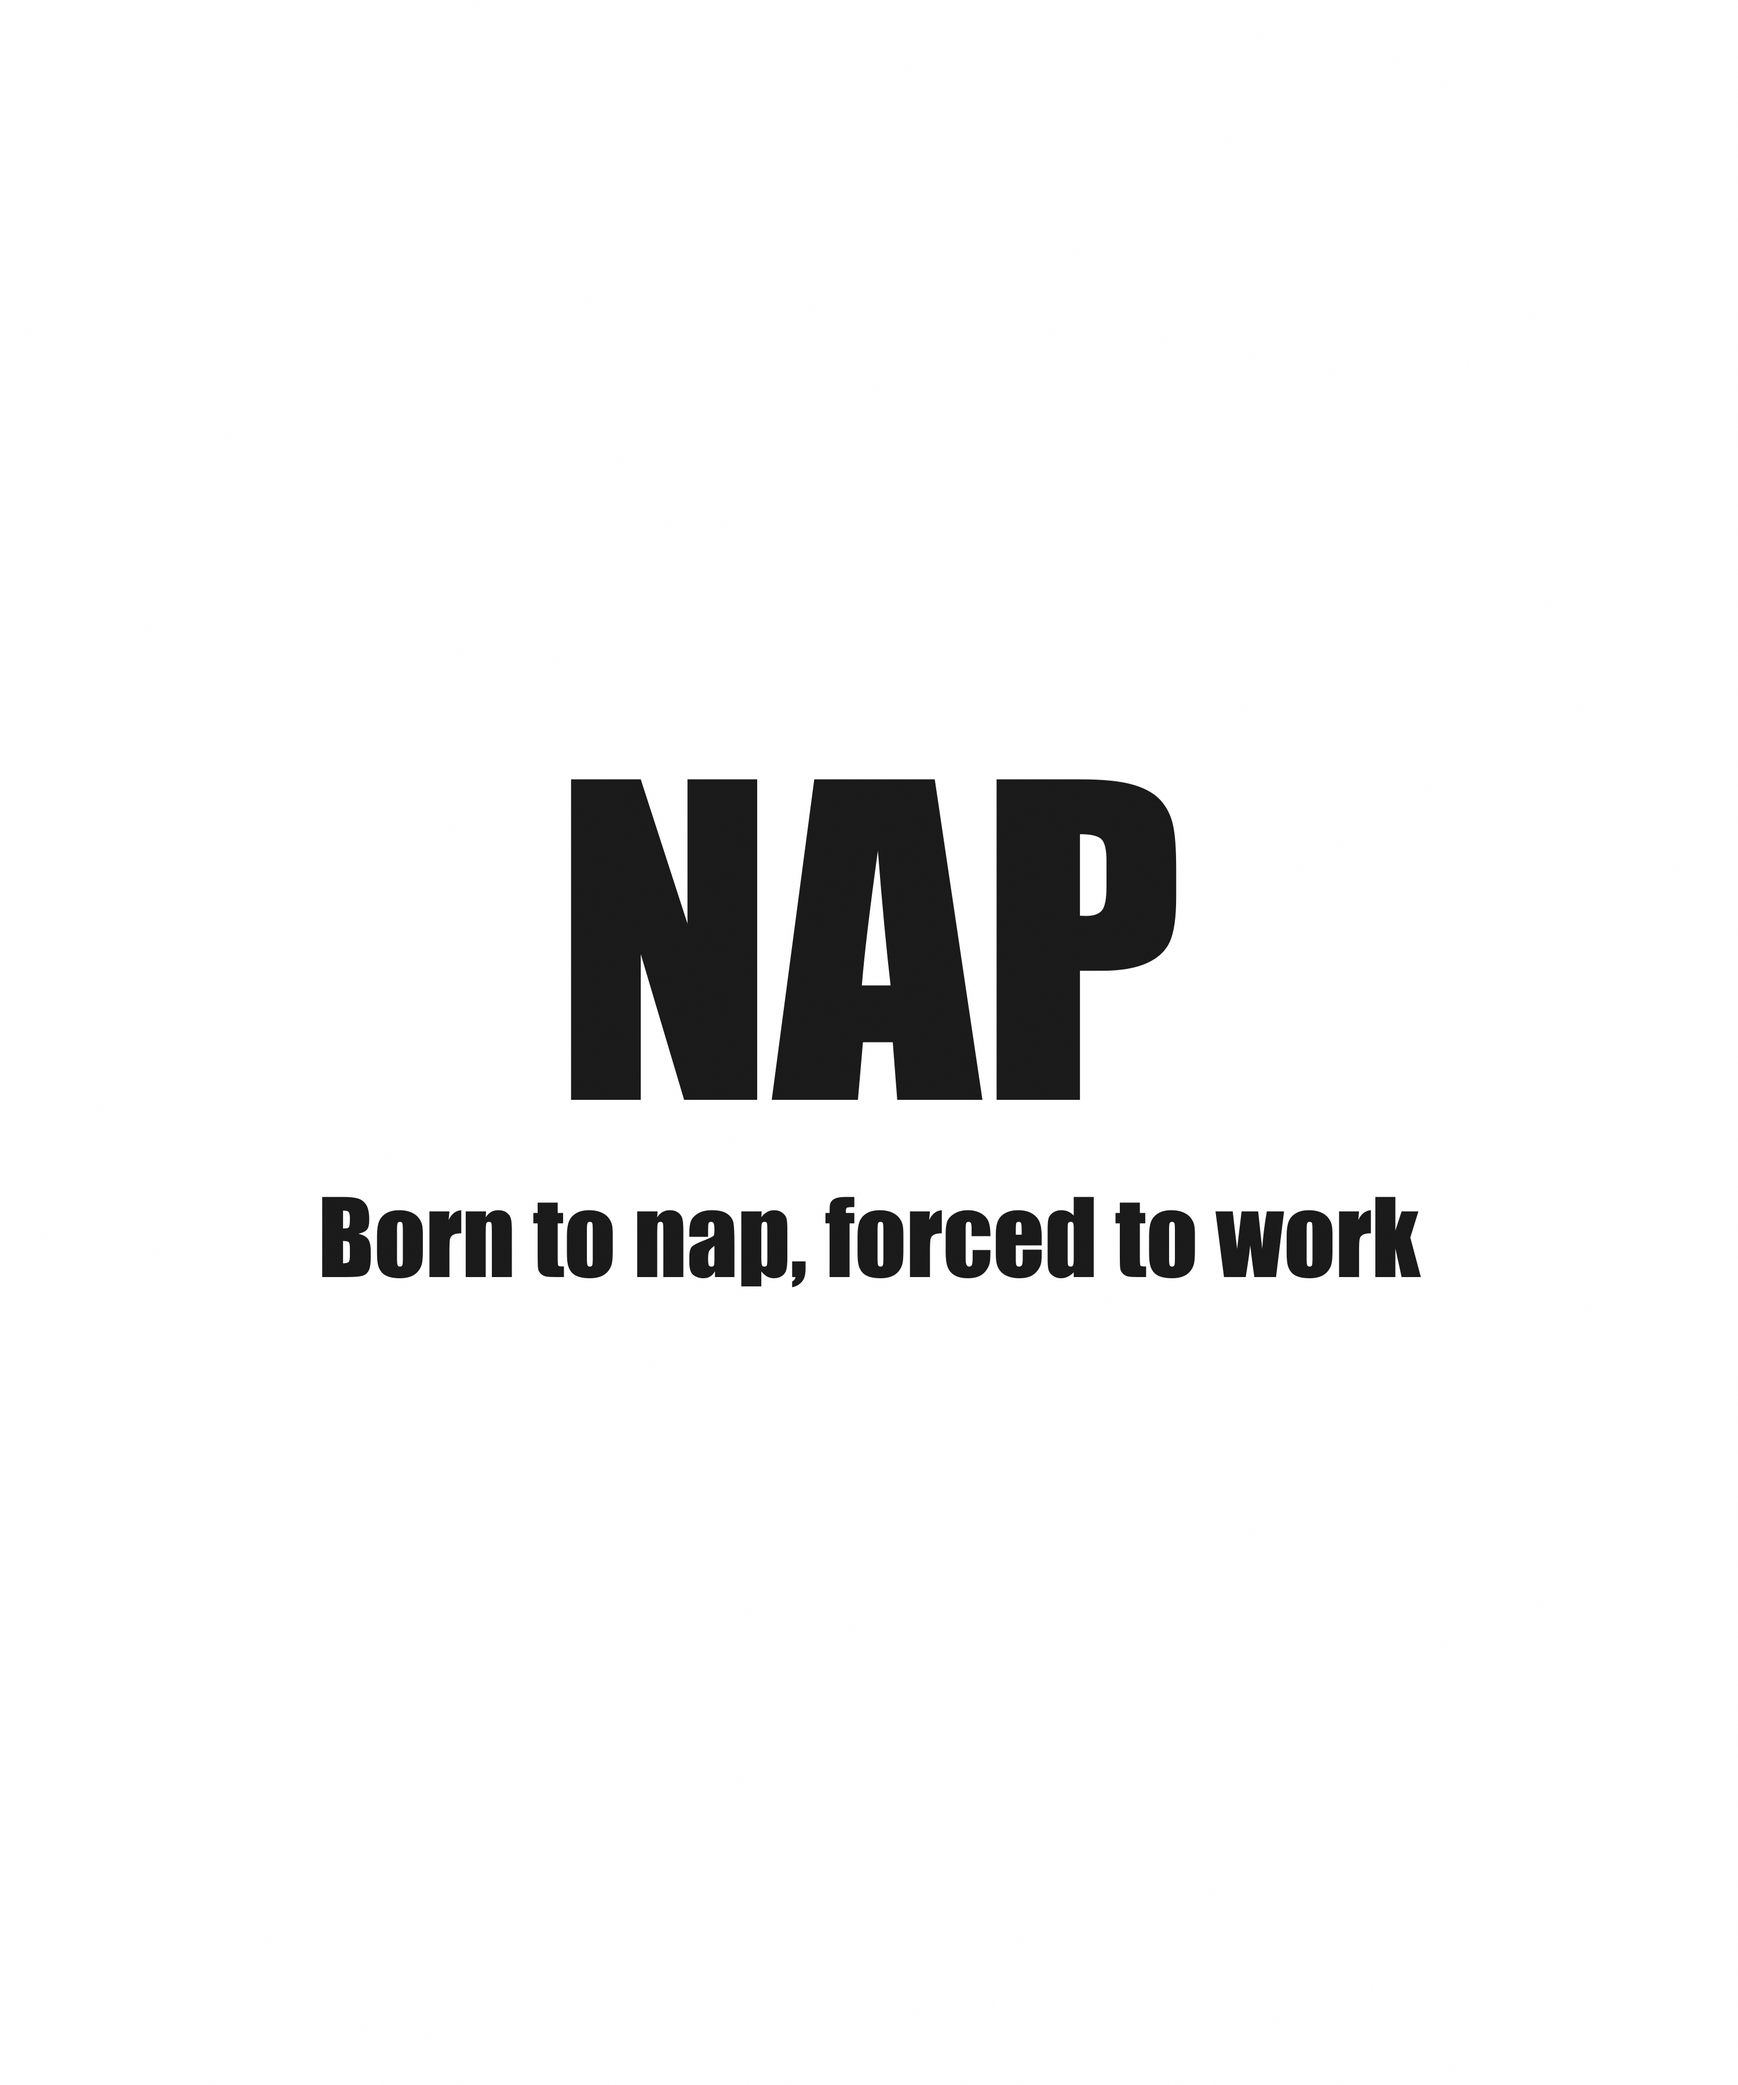
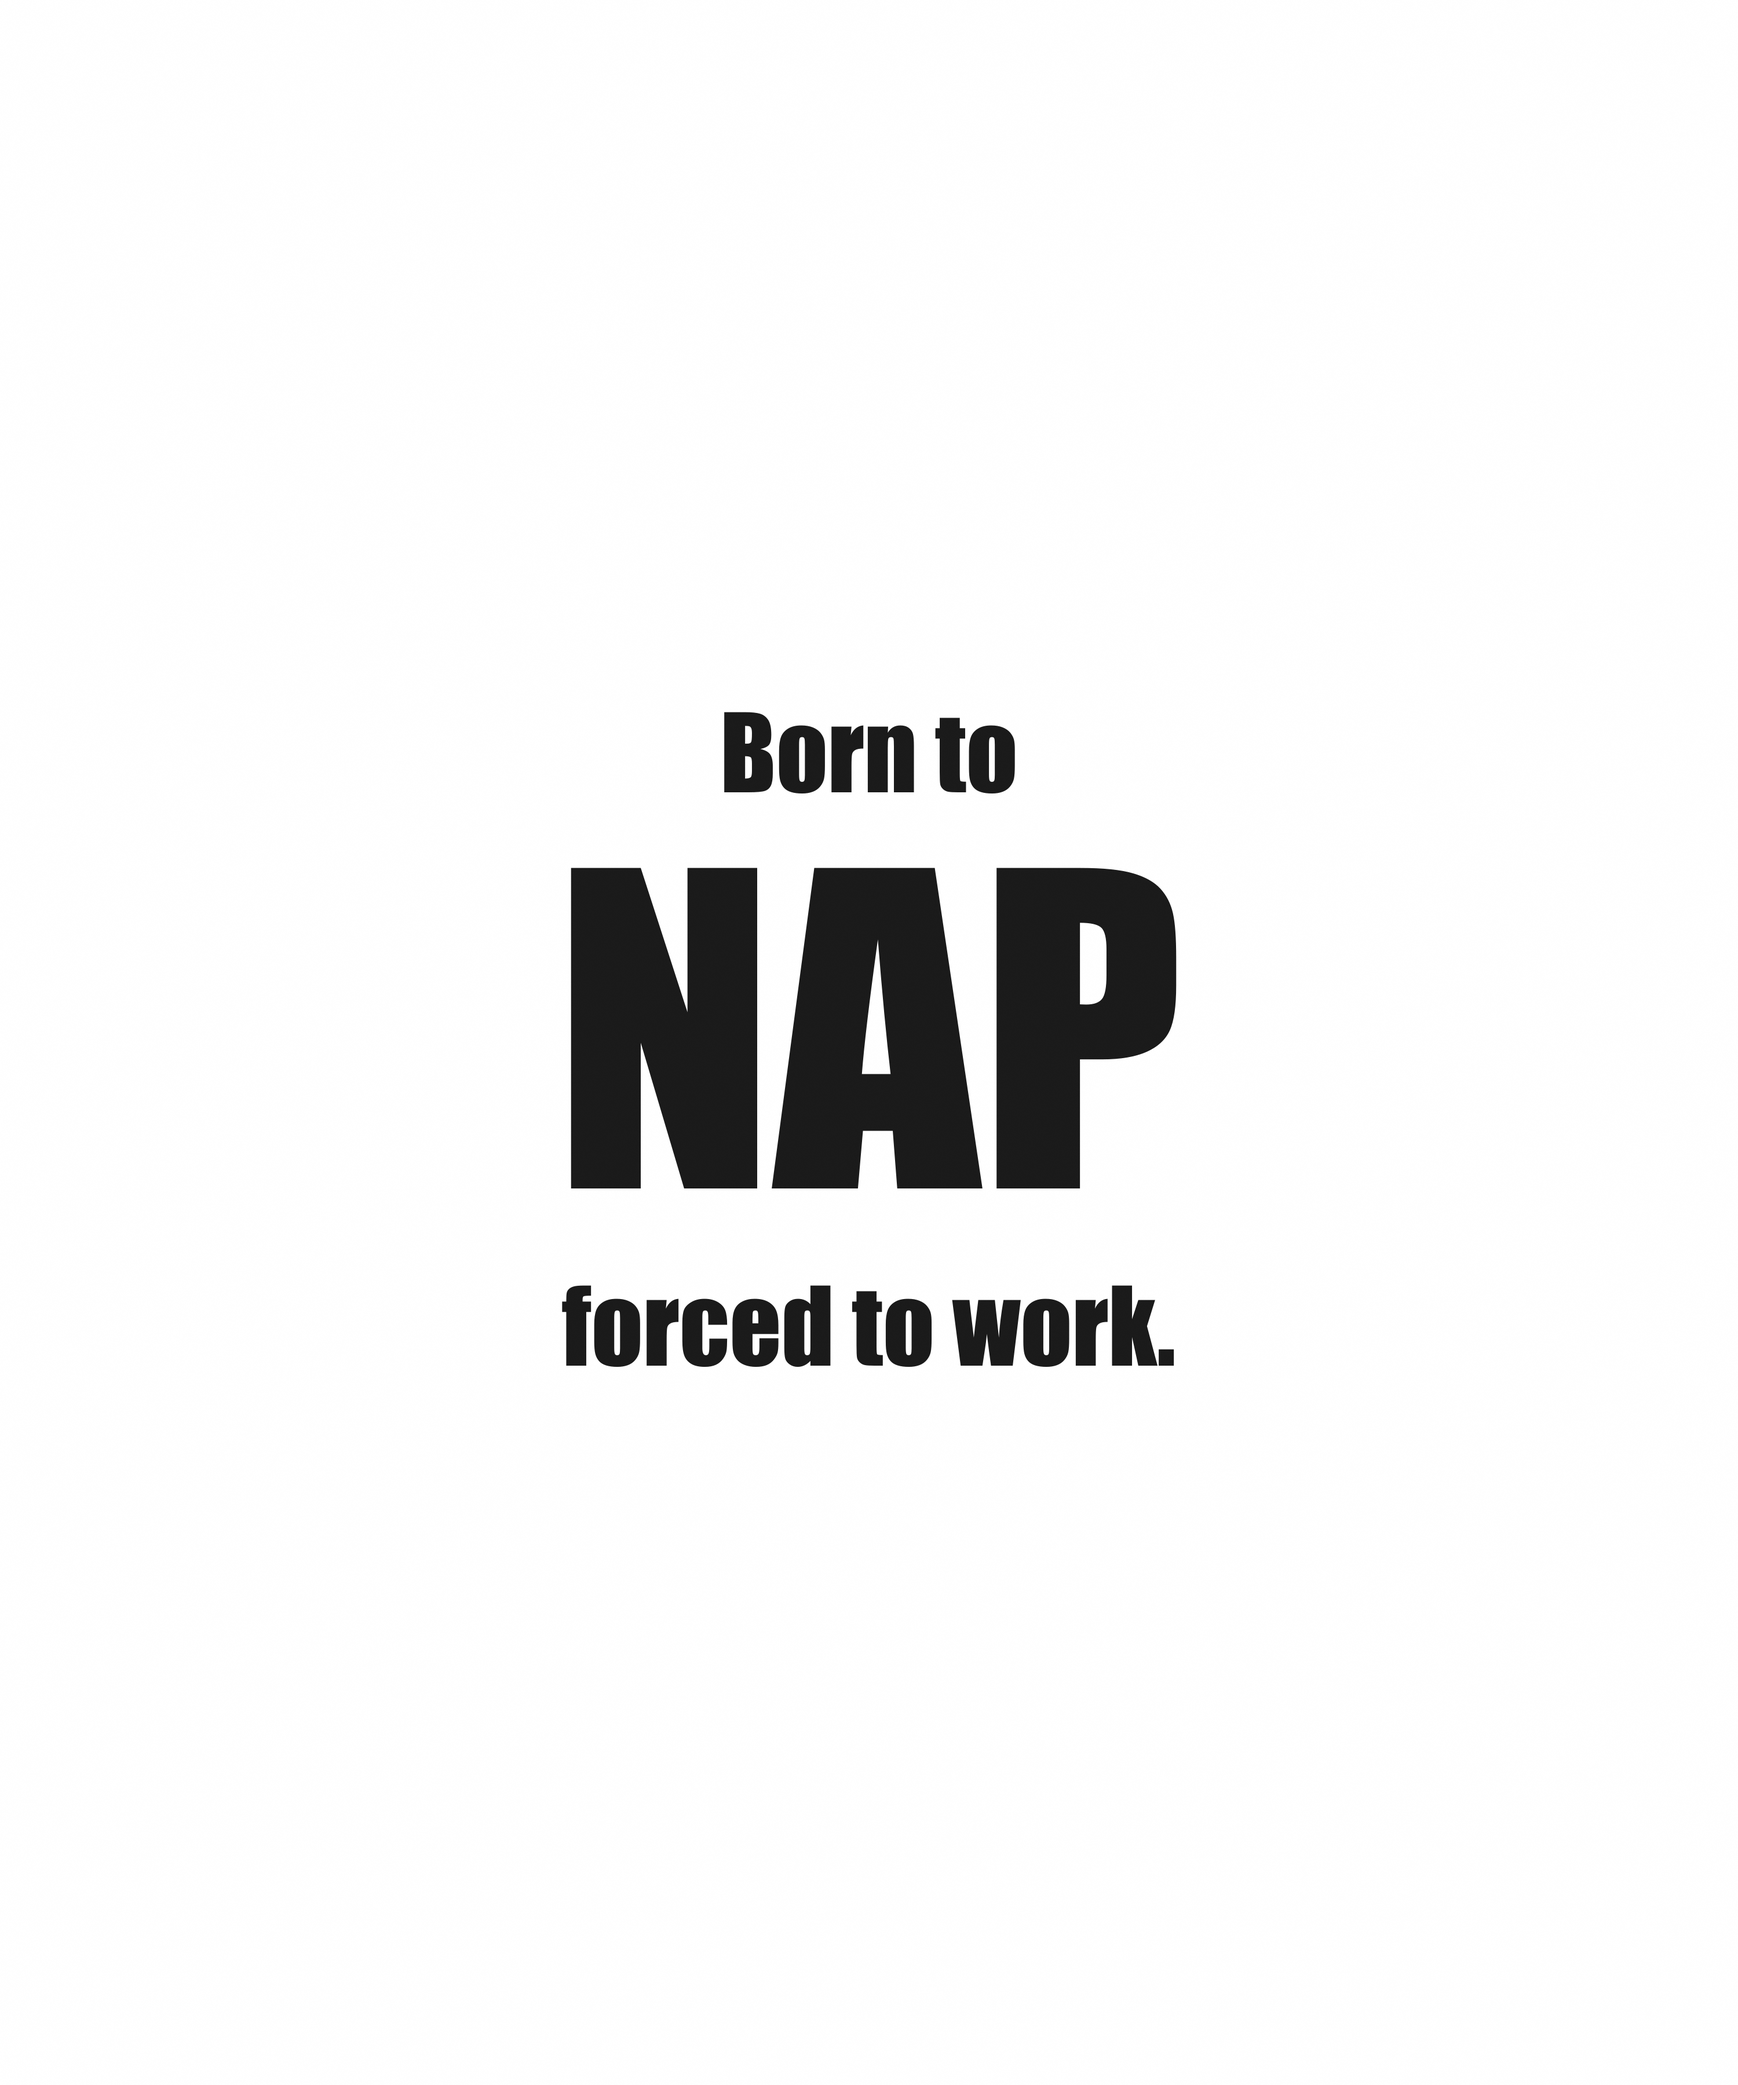
fix(i18n+cart+design): HE currency on trust bar/hero CTA, ghost-cart purge, NAP layout
Four bugs reported by oren via Hebrew UI screenshot:

1. NAP design (product 8): rebuild layout as 'Born to' (small) → NAP
   (big) → 'forced to work.' (small) so the design reads as a complete
   sentence top-to-bottom, instead of NAP-then-full-sentence-below.
   Updated PRODUCTS array in scripts/generate-designs.js AND the
   dubis_products row in Supabase (id 03689c28). Regenerated PNG.

2. Hero CTA showed '$14' even in Hebrew. Now converts the cheapest-
   product price ($14) via USD_TO_ILS at translateUI() time and renders
   'לחנות — החל מ-₪51' in HE / 'Shop the Drop — from $14' in EN.

3. Trust bar showed 'Free US shipping over $60' (with hardcoded $60 in
   data-he). translateUI() now rewrites .trust-text dynamically via
   freeShippingThreshold(), so HE shows 'משלוח חינם לארה״ב מעל ₪218'.

4. Cart kept showing items from products that oren already deleted
   from the catalog. loadCart() now intersects the saved cart with
   the current products[] array and rewrites localStorage to drop
   the ghost rows.

Changed region(s): [[0.186, 0.3422, 0.837, 0.6533]]

diff --git a/js/main.js b/js/main.js
@@ -314,7 +314,29 @@ function translateUI(lang) {
   if (heroTagline) heroTagline.textContent = t.hero_tagline;
   if (heroSubtitle && t.hero_subtitle) heroSubtitle.textContent = t.hero_subtitle;
   if (heroDesc) heroDesc.textContent = t.hero_desc;
-  if (heroBtn) heroBtn.textContent = t.hero_btn;
+  // Currency-aware hero CTA. Static translation strings hard-code "$14",
+  // but in Hebrew we display ₪ (USD_TO_ILS-converted) so prices stay in
+  // one currency across the page.
+  if (heroBtn) {
+    const cheapestUsd = 14;
+    heroBtn.textContent = lang === 'he'
+      ? 'לחנות — החל מ-' + formatPrice(cheapestUsd)
+      : 'Shop the Drop — from ' + formatPrice(cheapestUsd);
+  }
+
+  // Trust bar (top of page) — "Free US shipping over $60" in EN,
+  // "משלוח חינם לארה״ב מעל ₪X" in HE (X computed from USD_TO_ILS).
+  const trustEls = qa('.trust-text');
+  trustEls.forEach(el => {
+    const en = el.getAttribute('data-en');
+    if (!en) return;
+    if (lang === 'he') {
+      if (/over \$60/i.test(en)) el.textContent = 'משלוח חינם לארה״ב מעל ' + freeShippingThreshold();
+      else if (el.getAttribute('data-he')) el.textContent = el.getAttribute('data-he');
+    } else {
+      el.textContent = en;
+    }
+  });
 
   // Urgency bar
   const urgText = document.getElementById('urgency-text');
@@ -933,7 +955,15 @@ function saveCart() {
 function loadCart() {
   try {
     const saved = localStorage.getItem('dubis-cart');
-    if (saved) { cart = JSON.parse(saved); updateCartCount(); }
+    if (!saved) return;
+    const parsed = JSON.parse(saved);
+    // Drop any saved item whose product no longer exists in the catalog
+    // (deleted/disabled SKUs). Without this, a customer who once added a
+    // since-removed product sees a "ghost" cart on every visit.
+    const validIds = new Set(products.map(p => p.id));
+    cart = parsed.filter(item => validIds.has(item.id));
+    if (cart.length !== parsed.length) saveCart();
+    updateCartCount();
   } catch(e) { cart = []; }
 }
 

diff --git a/scripts/generate-designs.js b/scripts/generate-designs.js
@@ -58,8 +58,8 @@ const PRODUCTS = [
     small: "Not a model.",         big: "NEVER.",     after: "wanted to be."     },
   { id: 7,  phrase: "DUBIS — For the rest of us",         type:   'cap',
     small: "DUBIS",                big: "",           after: "For the rest of us" },
-  { id: 8,  phrase: "Born to nap, forced to work",        layout: 'big-top',
-    small: "",                     big: "NAP",        after: "Born to nap, forced to work" },
+  { id: 8,  phrase: "Born to nap, forced to work",        layout: 'top-bottom',
+    small: "Born to",              big: "NAP",        after: "forced to work."   },
   { id: 9,  phrase: "Certified overthinker",              layout: 'top-bottom',
     small: "certified",            big: "OVER",       after: "thinker."          },
   { id: 10, phrase: "Serial napper",                      layout: 'top-bottom',
